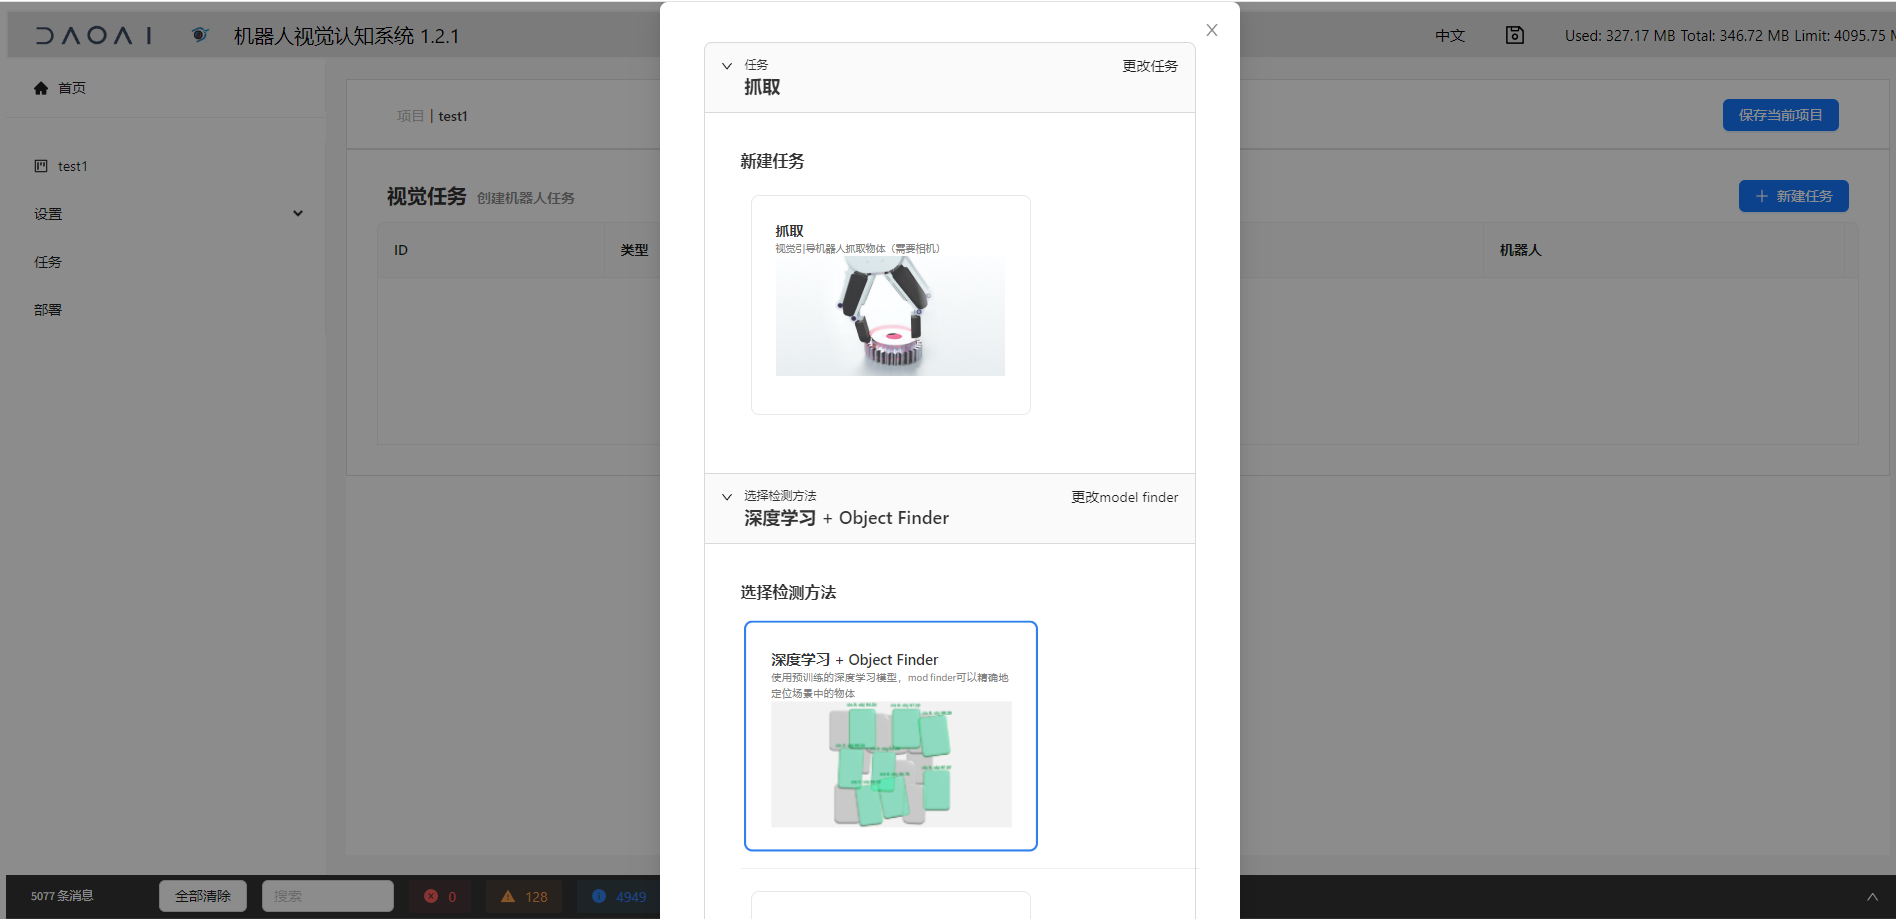
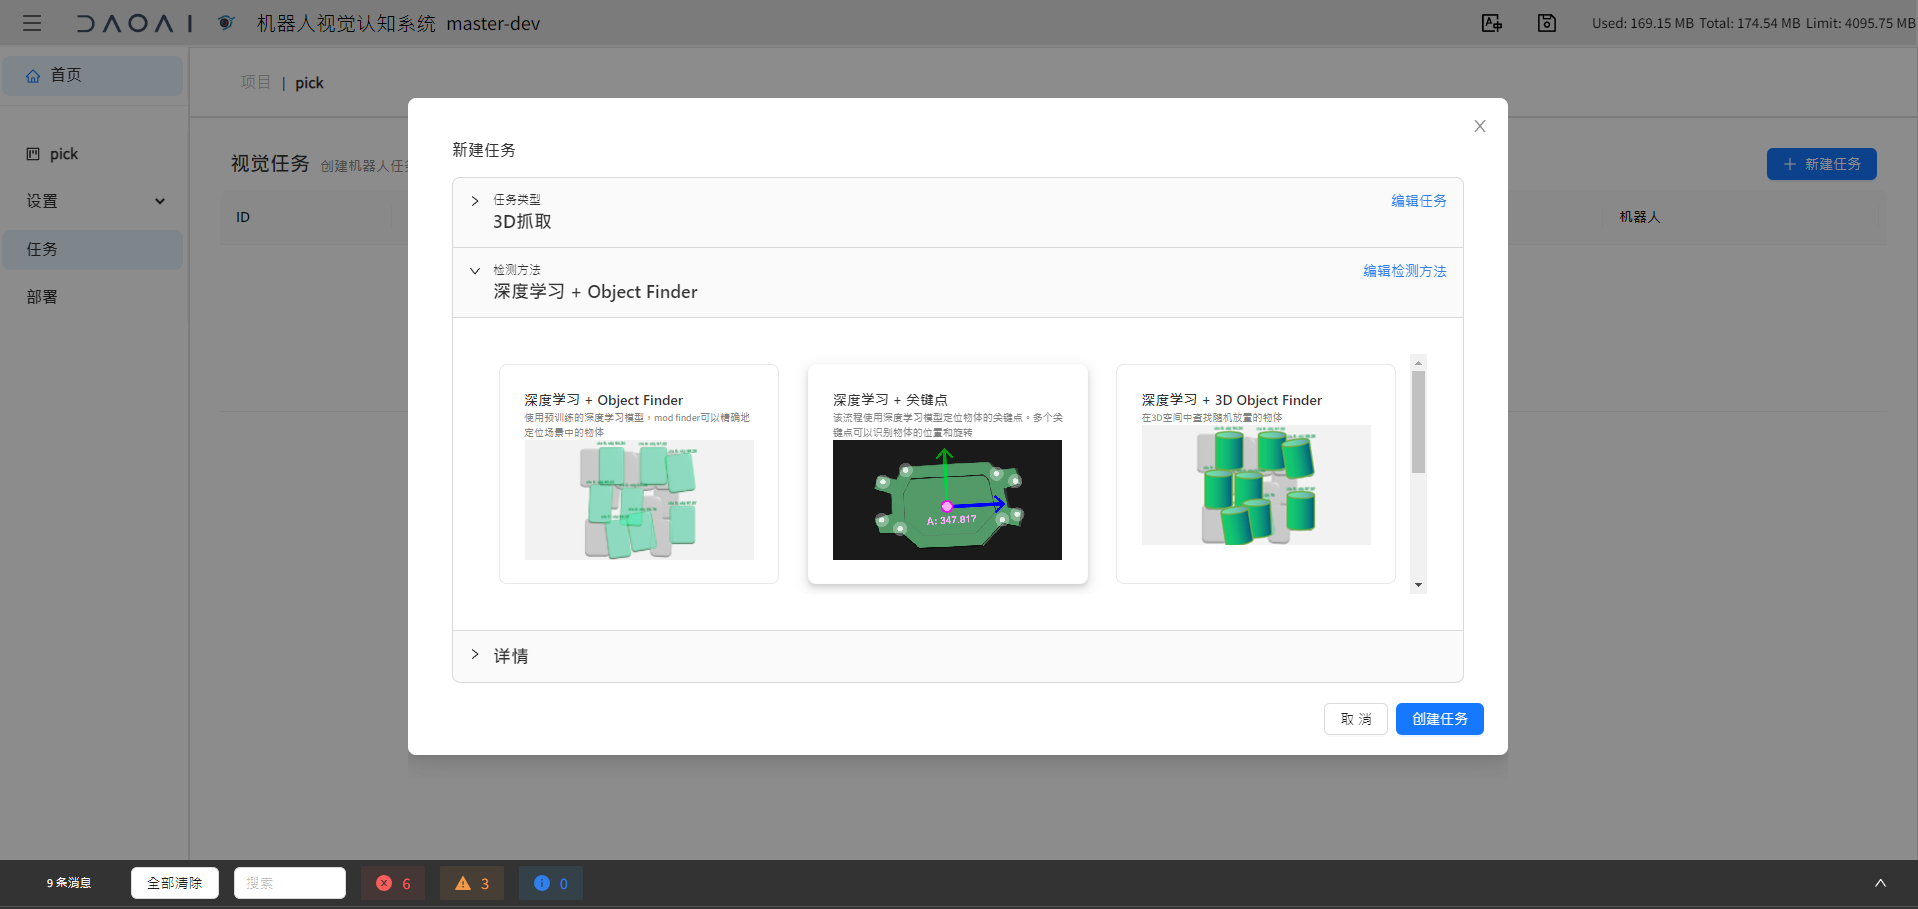
update on more images and file structure with new feature added for 2.24.2

diff --git a/docs/source/application/vision-project/pick.rst b/docs/source/application/vision-project/pick.rst
@@ -66,6 +66,8 @@
 真实示教
 ~~~~~~~~~
 
+    TODO: eye-in-hand的真实示教在capture的同时也需要发送机器人位姿
+
     真实示教是由用户移动机器人至标准的抓取姿态，然后发送该位姿至机器人视觉认知系统，由机器人视觉认知系统计算并记录TCP和物体的相对关系。
 
     以UR为例

diff --git a/docs/source/application/vision-project-tuning/index.rst b/docs/source/application/vision-project-tuning/index.rst
@@ -159,5 +159,8 @@
 
     dl_kp_advanced_settings
     dl_modfinder_advanced_settings
+    dl_3dmodfinder_advanced_settings
+    trans3d_advanced_settings
+    dl_2dkp_advanced_settings
 
 

diff --git a/docs/source/application/vision-project/dl_3dmodfinder.rst b/docs/source/application/vision-project/dl_3dmodfinder.rst
@@ -1,0 +1,4 @@
+Deep Learning 3D Object Finder 检测流程
+==========================================
+
+本章会详细介绍如何设置 Deep Learning 3D Object Finder 检测流程。

diff --git a/docs/source/application/vision-project/index.rst b/docs/source/application/vision-project/index.rst
@@ -29,7 +29,7 @@
 .. image:: images/info.png
     :scale: 80%
 
-5. 点击OK添加任务。
+5. 点击创建任务添加任务。
 
 .. image:: images/task_added.png
     :scale: 60%

diff --git a/docs/source/application/vision-project/detection.rst b/docs/source/application/vision-project/detection.rst
@@ -9,3 +9,7 @@
 
         dl_modfinder
         dl_kp
+        dl_3dmodfinder
+        trans3d
+        driftcheck
+        dl_2dkp

diff --git a/docs/source/application/vision-project-tuning/trans3d_advanced_settings.rst b/docs/source/application/vision-project-tuning/trans3d_advanced_settings.rst
@@ -1,0 +1,2 @@
+Large Object 检测流程高级配置
+==================================================================

diff --git a/docs/source/application/vision-project-tuning/dl_3dmodfinder_advanced_settings.rst b/docs/source/application/vision-project-tuning/dl_3dmodfinder_advanced_settings.rst
@@ -1,0 +1,2 @@
+DL 3D Object Finder 检测流程高级配置
+==============================

diff --git a/docs/source/application/vision-project-tuning/dl_2dkp_advanced_settings.rst b/docs/source/application/vision-project-tuning/dl_2dkp_advanced_settings.rst
@@ -1,0 +1,2 @@
+DL 2D Key Point 检测流程高级配置
+==============================

diff --git a/docs/source/application/vision-project/dl_2dkp.rst b/docs/source/application/vision-project/dl_2dkp.rst
@@ -1,0 +1,2 @@
+Deep Learning 2D Key Point 检测流程
+==============================

diff --git a/docs/source/application/vision-project/trans3d.rst b/docs/source/application/vision-project/trans3d.rst
@@ -1,0 +1,2 @@
+Large Object 检测流程
+=====================

diff --git a/docs/source/application/vision-project/driftcheck.rst b/docs/source/application/vision-project/driftcheck.rst
@@ -1,0 +1,2 @@
+标定检查检测流程
+================
